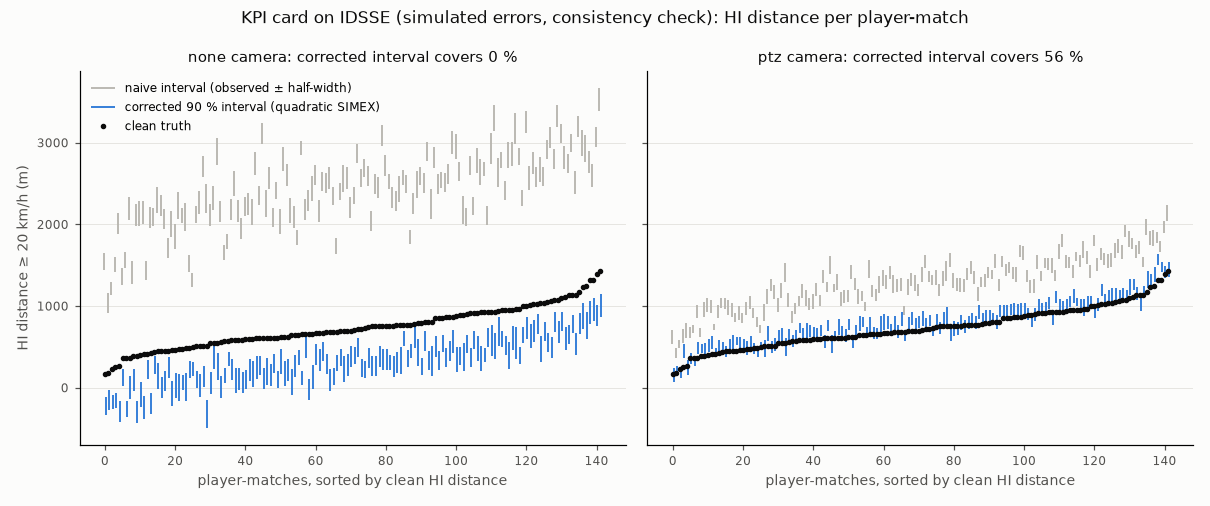
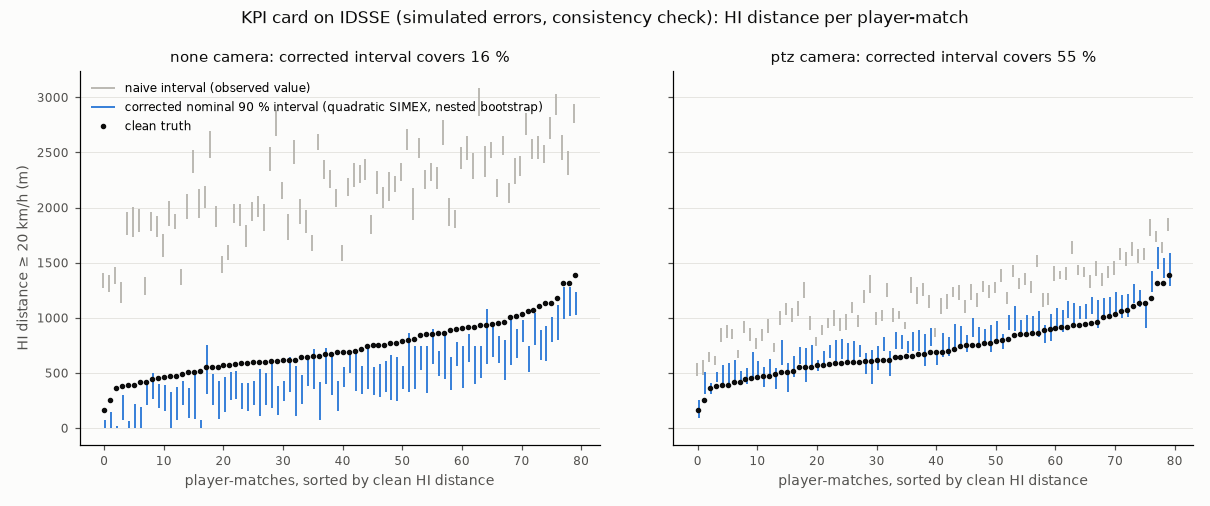
docs(reports): spectral budget and KPI card after the review fixes
Spectral budget (pooled-ACF refit, same seed and matches): PTZ chosen model
5 fps proxy in play +18.5 -> +15.0 % distance and +42.4 -> +34.0 % HSR
distance against +3.9 / +9.5 % measured, speed-error RMS 0.78 against 0.79;
the check fails for PTZ (x3.9, x3.6) and passes for the per-frame camera
(x1.6, x1.9), and the caveat above the budget says these numbers are not
predfoot's KPI error. 10 fps budget, PTZ: distance +22.7 -> +19.1 %, HI
distance +75.4 -> +59.9 %, sprint distance +122 -> +95 %, PSV-99
+11.5 -> +9.6 %. Step round trip: measured median 0.2 s step 0.59 to 0.72
of the chosen model's.

KPI card (4 matches, 80 player-matches, 20 draws, nested bootstrap 8 x 8):
PTZ quadratic coverage 90 / 94 / 86 % for HSR efforts, sprint efforts and
PSV-99 (55 to 70 % with the spread of one dose); 36 / 55 / 21 % for
distance, HI distance and sprint distance, limited by the remaining bias.

Claude-Session: https://claude.ai/code/session_012TVsGDiNG2EdFmFQenqDcG

diff --git a/reports/kpi_budget_spectral.md b/reports/kpi_budget_spectral.md
@@ -5,40 +5,55 @@
 > only measured KPI numbers are the SN-GSR proxy values quoted in section 2.
 
 - **Command**: `uv run python scripts/kpi_spectral.py `
-- **Git commit**: `5a726fe`; date 2026-10-31T17:25:14; runtime 260.9 s
+- **Git commit**: `b30e1e2`; date 2026-10-31T18:57:13; runtime 244.1 s
 - **Error process**: `reports/error_process_temporal_dev.json` (from `uv run python scripts/error_process.py runs/20261031-153059_c3861c7_ptz/players.parquet --compare runs/20261031-152537_c3861c7_none/players.parquet --name ptz --compare-name none`), errors against the smoothed labels, frames one in five (5 fps), per axis (x along the touchlines, y across) and part.
 - **IDSSE**: proxy check on J03WMX; budget on 7 matches (J03WMX, J03WN1, J03WOH, J03WOY, J03WPY, J03WQQ, J03WR9), 142 player-matches (outfield, ≥ 45 min). IDSSE: Bassek, Rein, Weber & Memmert 2025, CC BY 4.0.
 - **Seed** 20261031, 1000 bootstrap resamples over matches; one noise draw per condition and match.
 
 ## 1. Error model
 
-Per axis and part, a stationary process with autocorrelation ρ(τ) = w_n·ν(τ) + w_m·k(τ/ℓ) + w_s·k(τ/T) (`predfoot.kpi.noise`): a nugget ν plus a main and a slow scale of one kernel k, fitted by weighted least squares to the five measured lags (0.2-1.0 s). Scales are kept at or above the 0.2 s sampling interval: anything faster is not resolved by the measurement and is carried by the nugget, whose shape at 25 Hz is an assumption (section 3). Two marginals: **Gaussian** with the measured σ, or the **measured marginal** through a Gaussian copula, ρ being then fitted to the ACF of the normal scores. The measured errors are heavy-tailed: a Gaussian with the measured σ makes the typical error about twice too large (robust σ = 0.36 to 0.68 of the SD, kurtosis 11 to 35 on these tables).
+Per axis and part, a stationary process with autocorrelation ρ(τ) = w_n·ν(τ) + w_m·k(τ/ℓ) + w_s·k(τ/T) (`predfoot.kpi.noise`): a nugget ν plus a main and a slow scale of one kernel k, fitted by weighted least squares to the five measured lags (0.2-1.0 s). Scales are kept at or above the 0.2 s sampling interval: anything faster is not resolved by the measurement and is carried by the nugget, whose shape at 25 Hz is an assumption (section 3). Two marginals: **Gaussian** with the measured σ, or the **measured marginal** through a Gaussian copula, ρ being then fitted to the ACF of the normal scores. The measured errors are heavy-tailed: robust σ (IQR / 1.349) = 0.45 to 0.68 of the SD and kurtosis 11 to 34 on these series, so a Gaussian with the measured σ makes the typical error 1.5 to 2.2 times too large.
 
 Largest |ACF residual| over the five lags (model minus measurement; normal-score ACF for the copula fits):
 
 | Camera | Part | Axis | single OU through 0.2 s (previous) | nugget + exponential (gauss) | nugget + Matérn-3/2 (gauss) | nugget + Matérn-5/2 (gauss) | nugget + squared exponential (gauss) | nugget + exponential (copula) | nugget + Matérn-3/2 (copula) | nugget + Matérn-5/2 (copula) | nugget + squared exponential (copula) |
 |---|---|---|---|---|---|---|---|---|---|---|---|
-| none | common | x | 0.256 | 0.007 | 0.005 | 0.005 | 0.004 | 0.004 | 0.002 | 0.002 | 0.001 |
-| none | common | y | 0.233 | 0.005 | 0.005 | 0.005 | 0.003 | 0.004 | 0.003 | 0.003 | 0.002 |
-| none | individual | x | 0.237 | 0.009 | 0.008 | 0.007 | 0.005 | 0.009 | 0.007 | 0.006 | 0.005 |
-| none | individual | y | 0.222 | 0.009 | 0.007 | 0.007 | 0.005 | 0.009 | 0.007 | 0.007 | 0.006 |
-| ptz | common | x | 0.065 | 0.003 | 0.002 | 0.002 | 0.004 | 0.002 | 0.001 | 0.002 | 0.003 |
-| ptz | common | y | 0.062 | 0.025 | 0.001 | 0.002 | 0.003 | 0.020 | 0.001 | 0.002 | 0.003 |
-| ptz | individual | x | 0.224 | 0.012 | 0.010 | 0.009 | 0.008 | 0.012 | 0.010 | 0.009 | 0.008 |
-| ptz | individual | y | 0.259 | 0.017 | 0.016 | 0.015 | 0.014 | 0.016 | 0.015 | 0.014 | 0.014 |
+| none | common | x | 0.291 | 0.017 | 0.016 | 0.015 | 0.014 | 0.005 | 0.005 | 0.005 | 0.004 |
+| none | common | y | 0.272 | 0.006 | 0.006 | 0.006 | 0.005 | 0.006 | 0.004 | 0.004 | 0.003 |
+| none | individual | x | 0.343 | 0.008 | 0.007 | 0.006 | 0.006 | 0.007 | 0.006 | 0.005 | 0.003 |
+| none | individual | y | 0.298 | 0.006 | 0.004 | 0.004 | 0.003 | 0.006 | 0.004 | 0.003 | 0.003 |
+| ptz | common | x | 0.045 | 0.005 | 0.001 | 0.000 | 0.001 | 0.003 | 0.001 | 0.001 | 0.002 |
+| ptz | common | y | 0.079 | 0.034 | 0.001 | 0.002 | 0.003 | 0.024 | 0.001 | 0.002 | 0.003 |
+| ptz | individual | x | 0.208 | 0.005 | 0.004 | 0.005 | 0.006 | 0.008 | 0.006 | 0.005 | 0.005 |
+| ptz | individual | y | 0.294 | 0.010 | 0.009 | 0.008 | 0.007 | 0.012 | 0.010 | 0.009 | 0.008 |
 
-Chosen model: **nugget + Matérn-3/2, measured marginal, white nugget**. Parameters (σ in m, scales in s; the last column is the RMS of the time derivative of a Gaussian process with the same σ and ρ, in m/s, infinite when the nugget is white or the kernel exponential):
+Chosen model: **nugget + Matérn-3/2, measured marginal, white nugget**. The kernel is a prior choice, not a fit result: the smooth kernels fit the five lags about as well as each other (table above), and Matérn-3/2 is the roughest of them with differentiable paths, as expected of the error of a smoothed camera with inertia. Parameters (σ in m, scales in s; the last column is the RMS of the time derivative of a Gaussian process with the same σ and ρ, in m/s, infinite when the nugget is white or the kernel exponential):
 
 | Camera | Part | Axis | σ | w_n | ℓ | w_s | T | RMS d/dt |
 |---|---|---|---|---|---|---|---|---|
-| none | common | x | 0.542 | 0.32 | 0.20 | 0.58 | 1.4 | ∞ |
-| none | common | y | 0.580 | 0.32 | 0.38 | 0.46 | 1.6 | ∞ |
-| none | individual | x | 0.535 | 0.41 | 0.20 | 0.41 | 1.5 | ∞ |
-| none | individual | y | 0.652 | 0.48 | 0.20 | 0.33 | 1.7 | ∞ |
-| ptz | common | x | 0.375 | 0.08 | 0.39 | 0.65 | 1.8 | ∞ |
-| ptz | common | y | 0.476 | 0.05 | 0.47 | 0.55 | 1.8 | ∞ |
-| ptz | individual | x | 0.326 | 0.20 | 0.20 | 0.57 | 1.4 | ∞ |
-| ptz | individual | y | 0.396 | 0.26 | 0.20 | 0.48 | 1.8 | ∞ |
+| none | common | x | 0.542 | 0.27 | 0.33 | 0.62 | 1.8 | ∞ |
+| none | common | y | 0.580 | 0.27 | 0.52 | 0.43 | 2.6 | ∞ |
+| none | individual | x | 0.535 | 0.35 | 0.20 | 0.51 | 1.9 | ∞ |
+| none | individual | y | 0.652 | 0.43 | 0.20 | 0.41 | 1.9 | ∞ |
+| ptz | common | x | 0.375 | 0.05 | 0.49 | 0.66 | 2.4 | ∞ |
+| ptz | common | y | 0.476 | 0.03 | 0.54 | 0.59 | 2.4 | ∞ |
+| ptz | individual | x | 0.326 | 0.13 | 0.20 | 0.68 | 1.6 | ∞ |
+| ptz | individual | y | 0.396 | 0.19 | 0.20 | 0.61 | 1.8 | ∞ |
+
+Round trip at 5 fps: RMS and median |step| of the 0.2 s error steps (m), measured on SN-GSR dev and in 10 min of samples of the fitted processes (25 Hz, one sample in five): the Gaussian nugget + Matérn-3/2 and the chosen model. The ACF is pooled over series (`error_process.py`), so the Gaussian fit reproduces the measured step RMS up to its ACF residual; the copula fit matches the normal scores instead, so its step RMS can differ.
+
+| Camera | Part | Axis | Step RMS: measured | Gaussian | chosen | Median |step|: measured | Gaussian | chosen |
+|---|---|---|---|---|---|---|---|---|
+| none | common | x | 0.441 | 0.443 | 0.481 | 0.109 | 0.298 | 0.185 |
+| none | common | y | 0.458 | 0.458 | 0.485 | 0.179 | 0.309 | 0.256 |
+| none | individual | x | 0.496 | 0.492 | 0.540 | 0.126 | 0.333 | 0.204 |
+| none | individual | y | 0.674 | 0.673 | 0.688 | 0.199 | 0.455 | 0.291 |
+| ptz | common | x | 0.179 | 0.180 | 0.201 | 0.053 | 0.122 | 0.079 |
+| ptz | common | y | 0.190 | 0.191 | 0.225 | 0.080 | 0.129 | 0.112 |
+| ptz | individual | x | 0.210 | 0.210 | 0.252 | 0.062 | 0.143 | 0.098 |
+| ptz | individual | y | 0.307 | 0.307 | 0.329 | 0.101 | 0.206 | 0.151 |
+
+Measured / chosen model: step RMS 0.83 to 0.98, median |step| 0.59 to 0.72. A median ratio below the RMS ratio means real steps are intermittent: mostly smaller than the model's, with rarer large jumps.
 
 ## 2. Simulation against measurement: the KPI proxy at 5 fps
 
@@ -55,40 +70,51 @@ Simulated values are *all frames / ball in play* (speed error: RMS / p90 of |err
 | Camera and model | Distance bias | HSR-distance bias | Speed error (m/s) |
 |---|---|---|---|
 | **none: measured on SN-GSR** | +27.1 % | +67.9 % | 1.50 / 1.54 |
-| none: single OU through 0.2 s (previous) | +99.0 % / +64.4 % | +235.4 % / +207.3 % | 1.77 / 2.68 · 1.75 / 2.62 |
-| none: nugget + Matérn-3/2, Gaussian, white nugget | +81.6 % / +52.4 % | +146.3 % / +131.7 % | 1.48 / 2.18 · 1.47 / 2.15 |
-| none: nugget + exponential, measured marginal, white nugget | +75.7 % / +49.0 % | +167.3 % / +146.4 % | 1.52 / 2.18 · 1.52 / 2.14 |
-| none: nugget + Matérn-3/2, measured marginal, white nugget | +75.2 % / +48.4 % | +168.2 % / +144.5 % | 1.51 / 2.18 · 1.50 / 2.12 |
-| none: nugget + squared exponential, measured marginal, white nugget | +75.7 % / +48.9 % | +166.4 % / +142.6 % | 1.51 / 2.18 · 1.50 / 2.14 |
+| none: single OU through 0.2 s (previous) | +89.0 % / +57.3 % | +207.4 % / +184.9 % | 1.68 / 2.57 · 1.65 / 2.50 |
+| none: nugget + Matérn-3/2, Gaussian, white nugget | +68.7 % / +43.4 % | +109.2 % / +100.5 % | 1.31 / 1.95 · 1.31 / 1.93 |
+| none: nugget + exponential, measured marginal, white nugget | +68.4 % / +44.0 % | +145.0 % / +128.3 % | 1.42 / 2.03 · 1.42 / 2.00 |
+| none: nugget + Matérn-3/2, measured marginal, white nugget | +68.0 % / +43.4 % | +145.3 % / +126.2 % | 1.42 / 2.03 · 1.41 / 1.98 |
+| none: nugget + squared exponential, measured marginal, white nugget | +68.4 % / +43.9 % | +144.3 % / +124.0 % | 1.42 / 2.03 · 1.41 / 2.00 |
 | **ptz: measured on SN-GSR** | +3.9 % | +9.5 % | 0.79 / 0.88 |
-| ptz: single OU through 0.2 s (previous) | +37.3 % / +21.9 % | +49.9 % / +48.0 % | 0.93 / 1.45 · 0.92 / 1.43 |
-| ptz: nugget + Matérn-3/2, Gaussian, white nugget | +33.2 % / +19.3 % | +40.1 % / +38.9 % | 0.85 / 1.32 · 0.85 / 1.32 |
-| ptz: nugget + exponential, measured marginal, white nugget | +31.5 % / +18.6 % | +46.3 % / +42.5 % | 0.87 / 1.28 · 0.86 / 1.25 |
-| ptz: nugget + Matérn-3/2, measured marginal, white nugget | +32.0 % / +18.5 % | +47.2 % / +42.4 % | 0.88 / 1.31 · 0.86 / 1.27 |
-| ptz: nugget + squared exponential, measured marginal, white nugget | +32.0 % / +19.1 % | +49.8 % / +46.1 % | 0.89 / 1.30 · 0.87 / 1.29 |
+| ptz: single OU through 0.2 s (previous) | +27.5 % / +15.6 % | +34.8 % / +33.7 % | 0.79 / 1.24 · 0.78 / 1.22 |
+| ptz: nugget + Matérn-3/2, Gaussian, white nugget | +24.0 % / +13.5 % | +26.5 % / +25.8 % | 0.71 / 1.12 · 0.71 / 1.11 |
+| ptz: nugget + exponential, measured marginal, white nugget | +26.0 % / +15.1 % | +35.8 % / +33.4 % | 0.78 / 1.15 · 0.78 / 1.13 |
+| ptz: nugget + Matérn-3/2, measured marginal, white nugget | +26.5 % / +15.0 % | +37.6 % / +34.0 % | 0.80 / 1.18 · 0.78 / 1.14 |
+| ptz: nugget + squared exponential, measured marginal, white nugget | +26.4 % / +15.6 % | +39.7 % / +37.4 % | 0.80 / 1.17 · 0.79 / 1.17 |
+
+**Verdict.** The check passes when the chosen model's ball-in-play distance and HSR-distance biases are both within a factor of 2 of the measured ones.
+
+| Camera | Distance bias: simulated / measured | HSR-distance bias: simulated / measured | Check |
+|---|---|---|---|
+| none | ×1.6 | ×1.9 | passes |
+| ptz | ×3.9 | ×3.6 | **fails** |
+
+Every simulated bias exceeds the measured one (×1.6 to ×3.9): the model overstates the 5 fps KPI cost even where the check passes.
 
 What the simulation does not reproduce: the SN-GSR reference is the smoothed labels, which carry their own smoothing error, while IDSSE's is the clean tracking; real errors are heteroscedastic (larger far from the camera, along the viewing direction) and can correlate with motion (fast pans during fast play), while the simulated ones are stationary and independent of motion; and the two data sets move differently (table above). Nothing was tuned on the proxy: models are fitted to the ACF and the marginal only.
 
 ## 3. Budget at the export rate (10 fps pipeline)
 
-Errors are sampled at 25 Hz and the 10 fps pipeline runs as for exported tracking. The nugget (0.05 to 0.48 of the variance) is invisible at 5 fps; two shapes bound what it can do at 25 Hz: **white** (independent frames, power spread to 12.5 Hz, mostly removed by the 10 fps smoothing after aliasing) and **band-limited** (flat spectrum up to 2.5 Hz: the smoothest process still uncorrelated at 0.2 s, with all its power where the 1 s smoothing lets speed noise through). The kernels bracket the resolved part between its measured lags, from exponential (rough) to squared exponential (smooth).
+> **Not predfoot's KPI error.** The check of section 2 fails for the ptz camera: the chosen model's simulated 5 fps proxy biases are several times the measured ones (ptz: distance ×3.9, HSR distance ×3.6, ball in play). For the none camera the check passes, but the simulated biases are still above the measured ones (none: distance ×1.6, HSR distance ×1.9). The numbers below are the budget of the fitted stationary error model; they overstate the KPI error of predfoot's tracking and must not be quoted as such.
+
+Errors are sampled at 25 Hz and the 10 fps pipeline runs as for exported tracking. The nugget (0.03 to 0.43 of the variance) is invisible at 5 fps; two shapes bound what it can do at 25 Hz: **white** (independent frames, power spread to 12.5 Hz, mostly removed by the 10 fps smoothing after aliasing) and **band-limited** (flat spectrum up to 2.5 Hz: the smoothest process still uncorrelated at 0.2 s, with all its power where the 1 s smoothing lets speed noise through). The kernels bracket the resolved part between its measured lags, from exponential (rough) to squared exponential (smooth).
 
 ### Chosen model (nugget + Matérn-3/2, measured marginal, white nugget) against the clean 25 Hz reference
 
 | Camera | KPI | Ref. mean | MAPE % [95 % CI] | Bias % [95 % CI] | Spearman [95 % CI] |
 |---|---|---|---|---|---|
-| none | Distance | 9646.8 | 46.11 [44.15, 48.77] | +45.95 [+43.96, +48.57] | 0.985 [0.976, 0.988] |
-| none | HI dist. ≥ 20 | 735.9 | 253.85 [238.32, 268.41] | +226.65 [+217.75, +235.79] | 0.779 [0.726, 0.824] |
-| none | Dist. > 25 | 180.1 | 587.10 [527.96, 651.22] | +416.50 [+388.60, +445.92] | 0.663 [0.620, 0.719] |
-| none | HSR efforts | 38.3 | 17.32 [15.62, 18.75] | -15.95 [-17.52, -14.21] | 0.908 [0.870, 0.927] |
-| none | Sprint efforts | 8.8 | 38.31 [36.50, 40.43] | -32.16 [-35.29, -28.52] | 0.768 [0.679, 0.832] |
-| none | PSV-99 | 28.5 | 23.69 [22.67, 24.83] | +23.42 [+22.39, +24.55] | 0.715 [0.618, 0.792] |
-| ptz | Distance | 9646.8 | 22.74 [21.76, 24.15] | +22.66 [+21.70, +24.05] | 0.993 [0.987, 0.995] |
-| ptz | HI dist. ≥ 20 | 735.9 | 83.85 [78.50, 89.42] | +75.38 [+72.32, +78.88] | 0.918 [0.887, 0.941] |
-| ptz | Dist. > 25 | 180.1 | 166.90 [151.36, 185.53] | +122.15 [+112.65, +132.53] | 0.879 [0.849, 0.910] |
-| ptz | HSR efforts | 38.3 | 9.27 [7.88, 10.41] | -4.29 [-5.85, -2.54] | 0.944 [0.893, 0.968] |
-| ptz | Sprint efforts | 8.8 | 23.52 [20.71, 26.48] | -16.64 [-19.53, -13.91] | 0.898 [0.858, 0.926] |
-| ptz | PSV-99 | 28.5 | 11.64 [10.69, 12.72] | +11.48 [+10.54, +12.56] | 0.794 [0.705, 0.860] |
+| none | Distance | 9646.8 | 41.28 [39.52, 43.66] | +41.14 [+39.35, +43.47] | 0.985 [0.976, 0.989] |
+| none | HI dist. ≥ 20 | 735.9 | 215.44 [202.83, 228.06] | +192.71 [+184.92, +200.41] | 0.808 [0.764, 0.848] |
+| none | Dist. > 25 | 180.1 | 493.46 [443.76, 546.92] | +350.91 [+327.23, +376.37] | 0.705 [0.674, 0.747] |
+| none | HSR efforts | 38.3 | 16.97 [15.37, 18.59] | -14.79 [-16.60, -12.96] | 0.911 [0.874, 0.935] |
+| none | Sprint efforts | 8.8 | 37.17 [35.20, 39.25] | -28.24 [-32.45, -23.96] | 0.776 [0.686, 0.843] |
+| none | PSV-99 | 28.5 | 21.39 [20.45, 22.51] | +21.14 [+20.20, +22.25] | 0.740 [0.671, 0.804] |
+| ptz | Distance | 9646.8 | 19.18 [18.40, 20.37] | +19.11 [+18.33, +20.29] | 0.994 [0.989, 0.995] |
+| ptz | HI dist. ≥ 20 | 735.9 | 66.48 [62.09, 71.17] | +59.87 [+57.16, +62.87] | 0.936 [0.915, 0.950] |
+| ptz | Dist. > 25 | 180.1 | 129.71 [117.23, 144.31] | +95.36 [+87.51, +104.18] | 0.910 [0.890, 0.930] |
+| ptz | HSR efforts | 38.3 | 8.52 [7.65, 9.59] | -2.23 [-3.85, -0.71] | 0.947 [0.896, 0.969] |
+| ptz | Sprint efforts | 8.8 | 21.20 [19.19, 23.65] | -13.12 [-15.67, -10.99] | 0.904 [0.879, 0.920] |
+| ptz | PSV-99 | 28.5 | 9.70 [8.88, 10.65] | +9.57 [+8.76, +10.49] | 0.822 [0.747, 0.883] |
 
 ### Sensitivity: bias % of each KPI under every model
 
@@ -97,48 +123,48 @@ Ghost: distance per minute of a motionless player through the 10 fps pipeline (o
 | Model | Ghost (m/min) | Distance | HI dist. ≥ 20 | Dist. > 25 | HSR efforts | Sprint efforts | PSV-99 |
 |---|---|---|---|---|---|---|---|
 | clean 10 fps (control) | – | -0.1 | -0.2 | -0.2 | -0.5 | +0.0 | -0.1 |
-| none: single OU through 0.2 s (previous) | 155.0 | +74.1 | +443.2 | +806.3 | +3.9 | -10.6 | +34.1 |
-| none: nugget + Matérn-3/2, Gaussian, white nugget | 117.6 | +48.7 | +198.8 | +327.3 | -14.0 | -27.6 | +21.2 |
-| none: nugget + exponential, measured marginal, white nugget | 113.0 | +47.0 | +235.3 | +436.5 | -14.7 | -30.9 | +24.1 |
-| none: nugget + exponential, measured marginal, bandlimited nugget | 127.9 | +56.8 | +347.5 | +721.8 | -15.7 | -30.2 | +34.5 |
-| none: nugget + Matérn-3/2, measured marginal, white nugget | 110.6 | +45.9 | +226.6 | +416.5 | -16.0 | -32.2 | +23.4 |
-| none: nugget + Matérn-3/2, measured marginal, bandlimited nugget | 127.8 | +58.2 | +364.1 | +768.5 | -16.4 | -31.2 | +36.5 |
-| none: nugget + Matérn-5/2, measured marginal, white nugget | 111.8 | +45.8 | +222.6 | +408.1 | -15.7 | -29.4 | +22.7 |
-| none: nugget + Matérn-5/2, measured marginal, bandlimited nugget | 127.2 | +58.1 | +367.9 | +786.9 | -16.1 | -27.3 | +36.9 |
-| none: nugget + squared exponential, measured marginal, white nugget | 108.8 | +45.4 | +219.9 | +401.7 | -15.1 | -33.4 | +22.4 |
-| none: nugget + squared exponential, measured marginal, bandlimited nugget | 125.5 | +58.2 | +368.0 | +783.3 | -17.5 | -31.4 | +36.8 |
-| ptz: single OU through 0.2 s (previous) | 84.0 | +28.6 | +83.8 | +127.6 | -0.1 | -11.4 | +12.8 |
-| ptz: nugget + Matérn-3/2, Gaussian, white nugget | 73.8 | +22.9 | +60.6 | +90.7 | -4.1 | -9.8 | +10.1 |
-| ptz: nugget + exponential, measured marginal, white nugget | 70.5 | +22.8 | +76.8 | +125.1 | -4.7 | -9.8 | +11.8 |
-| ptz: nugget + exponential, measured marginal, bandlimited nugget | 72.6 | +24.1 | +84.4 | +139.9 | -6.3 | -16.5 | +13.4 |
-| ptz: nugget + Matérn-3/2, measured marginal, white nugget | 69.3 | +22.7 | +75.4 | +122.1 | -4.3 | -16.6 | +11.5 |
-| ptz: nugget + Matérn-3/2, measured marginal, bandlimited nugget | 75.7 | +25.1 | +91.5 | +151.9 | -6.6 | -15.8 | +14.1 |
-| ptz: nugget + Matérn-5/2, measured marginal, white nugget | 70.5 | +22.3 | +74.1 | +122.2 | -5.4 | -11.0 | +12.3 |
-| ptz: nugget + Matérn-5/2, measured marginal, bandlimited nugget | 75.2 | +25.4 | +95.0 | +161.8 | -7.2 | -16.3 | +15.0 |
-| ptz: nugget + squared exponential, measured marginal, white nugget | 67.9 | +22.0 | +71.2 | +114.9 | -4.2 | -15.4 | +11.2 |
-| ptz: nugget + squared exponential, measured marginal, bandlimited nugget | 75.7 | +25.4 | +93.9 | +159.2 | -7.4 | -15.0 | +15.0 |
+| none: single OU through 0.2 s (previous) | 146.4 | +68.1 | +375.0 | +662.0 | +13.6 | -0.8 | +31.1 |
+| none: nugget + Matérn-3/2, Gaussian, white nugget | 104.5 | +40.5 | +144.9 | +230.9 | -12.9 | -25.5 | +17.3 |
+| none: nugget + exponential, measured marginal, white nugget | 105.1 | +42.2 | +201.2 | +368.9 | -13.7 | -29.1 | +21.8 |
+| none: nugget + exponential, measured marginal, bandlimited nugget | 119.1 | +51.3 | +298.1 | +609.7 | -15.3 | -28.0 | +31.5 |
+| none: nugget + Matérn-3/2, measured marginal, white nugget | 102.7 | +41.1 | +192.7 | +350.9 | -14.8 | -28.2 | +21.1 |
+| none: nugget + Matérn-3/2, measured marginal, bandlimited nugget | 119.2 | +52.5 | +311.2 | +645.8 | -16.3 | -29.6 | +33.2 |
+| none: nugget + Matérn-5/2, measured marginal, white nugget | 104.1 | +41.0 | +190.0 | +344.8 | -14.6 | -28.2 | +20.5 |
+| none: nugget + Matérn-5/2, measured marginal, bandlimited nugget | 118.5 | +52.5 | +315.1 | +663.8 | -16.4 | -26.6 | +33.7 |
+| none: nugget + squared exponential, measured marginal, white nugget | 100.7 | +40.8 | +188.5 | +341.0 | -14.3 | -30.6 | +20.2 |
+| none: nugget + squared exponential, measured marginal, bandlimited nugget | 116.6 | +52.6 | +315.2 | +658.8 | -16.8 | -30.3 | +33.6 |
+| ptz: single OU through 0.2 s (previous) | 70.6 | +21.5 | +55.1 | +82.1 | +1.4 | -6.4 | +9.0 |
+| ptz: nugget + Matérn-3/2, Gaussian, white nugget | 61.6 | +16.9 | +39.7 | +58.9 | -1.2 | -5.2 | +7.2 |
+| ptz: nugget + exponential, measured marginal, white nugget | 63.0 | +19.2 | +60.6 | +96.9 | -3.1 | -6.1 | +9.9 |
+| ptz: nugget + exponential, measured marginal, bandlimited nugget | 64.7 | +20.1 | +65.2 | +106.2 | -4.0 | -12.9 | +11.1 |
+| ptz: nugget + Matérn-3/2, measured marginal, white nugget | 62.3 | +19.1 | +59.9 | +95.4 | -2.2 | -13.1 | +9.6 |
+| ptz: nugget + Matérn-3/2, measured marginal, bandlimited nugget | 67.5 | +20.9 | +70.5 | +114.3 | -4.4 | -13.5 | +11.4 |
+| ptz: nugget + Matérn-5/2, measured marginal, white nugget | 63.1 | +18.8 | +59.0 | +96.3 | -2.7 | -7.4 | +10.4 |
+| ptz: nugget + Matérn-5/2, measured marginal, bandlimited nugget | 66.8 | +21.1 | +73.6 | +123.3 | -4.9 | -13.8 | +12.3 |
+| ptz: nugget + squared exponential, measured marginal, white nugget | 60.7 | +18.5 | +56.7 | +89.9 | -3.2 | -11.4 | +9.4 |
+| ptz: nugget + squared exponential, measured marginal, bandlimited nugget | 67.2 | +21.1 | +72.1 | +120.1 | -5.6 | -12.5 | +12.2 |
 
 Sensitivity bound: the range of the bias over the four kernels and both nugget shapes (same marginal as the chosen model), next to the Gaussian Matérn-3/2 and the previous single OU:
 
 | Camera | KPI | Chosen | Range, kernels × nuggets | Gaussian Matérn-3/2 | Single OU |
 |---|---|---|---|---|---|
-| none | Distance | +45.9 | +45.4 to +58.2 | +48.7 | +74.1 |
-| none | HI dist. ≥ 20 | +226.6 | +219.9 to +368.0 | +198.8 | +443.2 |
-| none | Dist. > 25 | +416.5 | +401.7 to +786.9 | +327.3 | +806.3 |
-| none | HSR efforts | -16.0 | -17.5 to -14.7 | -14.0 | +3.9 |
-| none | Sprint efforts | -32.2 | -33.4 to -27.3 | -27.6 | -10.6 |
-| none | PSV-99 | +23.4 | +22.4 to +36.9 | +21.2 | +34.1 |
-| ptz | Distance | +22.7 | +22.0 to +25.4 | +22.9 | +28.6 |
-| ptz | HI dist. ≥ 20 | +75.4 | +71.2 to +95.0 | +60.6 | +83.8 |
-| ptz | Dist. > 25 | +122.1 | +114.9 to +161.8 | +90.7 | +127.6 |
-| ptz | HSR efforts | -4.3 | -7.4 to -4.2 | -4.1 | -0.1 |
-| ptz | Sprint efforts | -16.6 | -16.6 to -9.8 | -9.8 | -11.4 |
-| ptz | PSV-99 | +11.5 | +11.2 to +15.0 | +10.1 | +12.8 |
+| none | Distance | +41.1 | +40.8 to +52.6 | +40.5 | +68.1 |
+| none | HI dist. ≥ 20 | +192.7 | +188.5 to +315.2 | +144.9 | +375.0 |
+| none | Dist. > 25 | +350.9 | +341.0 to +663.8 | +230.9 | +662.0 |
+| none | HSR efforts | -14.8 | -16.8 to -13.7 | -12.9 | +13.6 |
+| none | Sprint efforts | -28.2 | -30.6 to -26.6 | -25.5 | -0.8 |
+| none | PSV-99 | +21.1 | +20.2 to +33.7 | +17.3 | +31.1 |
+| ptz | Distance | +19.1 | +18.5 to +21.1 | +16.9 | +21.5 |
+| ptz | HI dist. ≥ 20 | +59.9 | +56.7 to +73.6 | +39.7 | +55.1 |
+| ptz | Dist. > 25 | +95.4 | +89.9 to +123.3 | +58.9 | +82.1 |
+| ptz | HSR efforts | -2.2 | -5.6 to -2.2 | -1.2 | +1.4 |
+| ptz | Sprint efforts | -13.1 | -13.8 to -6.1 | -5.2 | -6.4 |
+| ptz | PSV-99 | +9.6 | +9.4 to +12.3 | +7.2 | +9.0 |
 
 All KPIs, chosen model, MAPE % / bias % against the clean 25 Hz reference:
 
 | Model | Distance | Dist. < 15 | Dist. 15-20 | Dist. 20-25 | Dist. > 25 | HI dist. ≥ 20 | HSR efforts | Sprint efforts | PSV-99 | Expl. acc. to HSR | Expl. acc. to sprint |
 |---|---|---|---|---|---|---|---|---|---|---|---|
-| none | 46.1 / +45.9 | 18.3 / +18.2 | 107.9 / +99.5 | 184.7 / +165.1 | 587.1 / +416.5 | 253.9 / +226.6 | 17.3 / -16.0 | 38.3 / -32.2 | 23.7 / +23.4 | 61.6 / -49.0 | 80.5 / +0.7 |
-| ptz | 22.7 / +22.7 | 13.7 / +13.7 | 46.3 / +43.0 | 67.2 / +60.2 | 166.9 / +122.1 | 83.9 / +75.4 | 9.3 / -4.3 | 23.5 / -16.6 | 11.6 / +11.5 | 59.4 / -35.6 | 57.0 / -19.1 |
+| none | 41.3 / +41.1 | 17.8 / +17.7 | 94.6 / +87.3 | 157.8 / +141.5 | 493.5 / +350.9 | 215.4 / +192.7 | 17.0 / -14.8 | 37.2 / -28.2 | 21.4 / +21.1 | 64.4 / -52.6 | 78.6 / -16.2 |
+| ptz | 19.2 / +19.1 | 12.1 / +12.1 | 38.1 / +35.5 | 53.8 / +48.4 | 129.7 / +95.4 | 66.5 / +59.9 | 8.5 / -2.2 | 21.2 / -13.1 | 9.7 / +9.6 | 56.8 / -37.7 | 60.9 / -32.4 |
 | clean 10 fps | 0.1 / -0.1 | 0.0 / -0.0 | 0.2 / -0.1 | 0.4 / -0.2 | 0.8 / -0.2 | 0.3 / -0.2 | 0.7 / -0.5 | 0.9 / +0.0 | 0.1 / -0.1 | 12.3 / +2.2 | 13.2 / +8.6 |

diff --git a/reports/kpi_card.md b/reports/kpi_card.md
@@ -5,79 +5,93 @@
 > Coverage here checks the card's arithmetic and its noise-on-noise approximation; it says nothing about
 > whether the error model is right for real broadcast tracking.
 
-- **Command**: `uv run python scripts/kpi_card.py --n-draws 20`
-- **Git commit**: `cae18db`; date 2026-10-31T17:34:30; runtime 294.5 s
+- **Command**: `uv run python scripts/kpi_card.py --matches J03WMX J03WN1 J03WOH J03WOY --n-draws 20 --n-outer 8 --n-inner 8`
+- **Git commit**: `796a452`; date 2026-10-31T18:47:01; runtime 627.4 s
 - **Error model** per camera: `matern32:copula:white` from `reports/error_process_temporal_dev.json` (`predfoot.kpi.noise.fit_error_model`).
-- **Data**: IDSSE (Bassek, Rein, Weber & Memmert 2025, CC BY 4.0), 7 matches, 142 outfield player-matches with ≥ 45 min; 20 error draws per card, each at two doses; coverage intervals: 1000 bootstrap resamples over matches; seed 20261031.
+- **Data**: IDSSE (Bassek, Rein, Weber & Memmert 2025, CC BY 4.0), 4 matches (J03WMX, J03WN1, J03WOH, J03WOY), 80 outfield player-matches with ≥ 45 min; 20 error draws per card, each at two doses; nested bootstrap with 8 pseudo-observations of 8 draws each; coverage intervals: 1000 bootstrap resamples over matches; seed 20261031.
 
 ## The card
 
-From the observed track and the camera's error model only (`predfoot.kpi.card`): fresh errors
-are drawn from the model and added to the observed track at one and two extra doses of error
-variance, and the 10 fps KPI pipeline runs on each copy (SIMEX, Cook & Stefanski 1994). The
-**linear** estimate removes the change caused by one extra dose (noise on noise); the **quadratic**
-one extrapolates the parabola through zero, one and two extra doses back to no error. The 90 %
-interval adds the spread of one dose's effect and the Monte Carlo error; the **naive** interval has
-the same half-width around the observed value. The truth is the clean track through the same 10 fps
-pipeline.
+From the observed track and the camera's error model only (`predfoot.kpi.card`): fresh errors are
+drawn from the model and added to the observed track at one and two extra doses of error variance,
+and the 10 fps KPI pipeline runs on each copy (SIMEX, Cook & Stefanski 1994). The **linear**
+estimate removes the change caused by one extra dose (noise on noise); the **quadratic** one
+extrapolates the parabola through zero, one and two extra doses back to no error. Estimates and
+intervals that leave the KPI's support (all these KPIs are ≥ 0) are projected onto it. The
+interval is estimate ± t·s: s² is the sampling variance of the estimate over the observed error,
+from a nested parametric bootstrap (the same extrapolation on pseudo-observations, the observed
+track plus one more model draw), plus the Monte Carlo variance of the draws, combined draw by draw
+since both doses reuse each draw. The spread of one dose's effect, the previous choice of s,
+understates the sampling variance of KPIs that jump with the track: the extrapolation amplifies
+their noise. The intervals are model-based and uncalibrated, hence *nominal* 90 %. The **naive**
+interval is the observed value ± t·(spread of one dose), without bias correction. The truth is the
+clean track through the same 10 fps pipeline.
 
 ## Coverage of the clean truth
 
-Coverage of 90 % intervals across player-matches [95 % CI over matches]; LOMO: leave-one-match-out
-calibrated half-width (median scale factor in brackets); bias: relative error of the KPI summed over
-player-matches, before (observed) and after correction (estimate).
+Coverage of nominal 90 % intervals across player-matches [95 % CI over matches]: quadratic and
+linear with the nested-bootstrap variance, quadratic with the spread of one dose (previous
+half-width), and naive. LOMO: the quadratic interval with a leave-one-match-out calibrated
+half-width (median scale factor in brackets). Truncated: share of quadratic estimates projected
+onto the support. Bias: relative error of the KPI summed over player-matches, before (observed)
+and after correction (estimate). The observed bias comes from errors simulated by the model of
+`reports/kpi_budget_spectral.md`, whose 5 fps check against SN-GSR fails (section 2 there): it
+overstates the KPI bias of predfoot's real tracking and is not predfoot's KPI error.
 
-| Camera | KPI | Quadratic | Linear | Naive | Quadratic, LOMO-calibrated | Median half-width (rel.) | Bias, observed | Bias after linear | Bias after quadratic |
-|---|---|---|---|---|---|---|---|---|---|
-| none | Distance | 0 % [0, 0] | 0 % [0, 0] | 0 % [0, 0] | 88 % (×7.98) | 109 m (1 %) | +46.2 % | +13.0 % | +6.3 % |
-| none | HI distance (≥ 20 km/h) | 0 % [0, 0] | 0 % [0, 0] | 0 % [0, 0] | 88 % (×4.73) | 128 m (17 %) | +228.1 % | -106.8 % | -56.2 % |
-| none | Sprint distance (> 25 km/h) | 74 % [68, 81] | 0 % [0, 0] | 0 % [0, 0] | 89 % (×1.35) | 98 m (63 %) | +423.5 % | -338.3 % | +12.1 % |
-| none | HSR efforts | 54 % [44, 63] | 42 % [32, 54] | 67 % [59, 75] | 89 % (×2.17) | 8.0 (22 %) | -15.7 % | -22.7 % | -15.6 % |
-| none | Sprint efforts | 54 % [50, 58] | 49 % [46, 53] | 78 % [73, 84] | 89 % (×2.03) | 3.8 (48 %) | -28.2 % | -33.2 % | -25.7 % |
-| none | PSV-99 | 40 % [34, 46] | 34 % [26, 41] | 0 % [0, 0] | 91 % (×2.70) | 2.0 km/h (7 %) | +24.2 % | +8.9 % | +9.1 % |
-| ptz | Distance | 21 % [3, 41] | 0 % [0, 0] | 0 % [0, 0] | 87 % (×3.54) | 82 m (1 %) | +22.6 % | +4.9 % | +1.7 % |
-| ptz | HI distance (≥ 20 km/h) | 56 % [40, 72] | 4 % [1, 7] | 0 % [0, 0] | 89 % (×1.88) | 79 m (11 %) | +76.0 % | -23.5 % | +8.3 % |
-| ptz | Sprint distance (> 25 km/h) | 18 % [12, 24] | 7 % [3, 12] | 0 % [0, 0] | 89 % (×2.97) | 55 m (36 %) | +124.4 % | -57.1 % | +54.5 % |
-| ptz | HSR efforts | 65 % [57, 75] | 62 % [54, 70] | 94 % [90, 99] | 89 % (×1.62) | 7.5 (20 %) | -3.3 % | -8.9 % | -5.6 % |
-| ptz | Sprint efforts | 55 % [46, 63] | 60 % [50, 69] | 87 % [83, 92] | 90 % (×1.89) | 3.6 (46 %) | -13.8 % | -19.5 % | -16.8 % |
-| ptz | PSV-99 | 63 % [54, 72] | 63 % [50, 75] | 4 % [1, 8] | 89 % (×1.77) | 1.5 km/h (5 %) | +12.2 % | +3.0 % | +3.5 % |
+| Camera | KPI | Quadratic | Quadratic, one-dose spread | Linear | Naive | Quadratic, LOMO-calibrated | Median half-width (rel.) | Truncated | Bias, observed | Bias after linear | Bias after quadratic |
+|---|---|---|---|---|---|---|---|---|---|---|---|
+| none | Distance | 0 % [0, 5]† | 0 % [0, 5]† | 0 % [0, 5]† | 0 % [0, 5]† | 89 % (×6.08) | 123 m (1 %) | 0 % | +41.8 % | +11.2 % | +4.9 % |
+| none | HI distance (≥ 20 km/h) | 16 % [10, 22] | 4 % [1, 5] | 0 % [0, 5]† | 0 % [0, 5]† | 86 % (×2.80) | 142 m (22 %) | 6 % | +194.9 % | -77.2 % | -34.6 % |
+| none | Sprint distance (> 25 km/h) | 59 % [44, 68] | 46 % [34, 56] | 1 % [0, 4] | 0 % [0, 5]† | 89 % (×2.03) | 110 m (79 %) | 2 % | +363.4 % | -97.4 % | +48.2 % |
+| none | HSR efforts | 94 % [88, 99] | 56 % [50, 62] | 75 % [70, 80] | 56 % [51, 62] | 90 % (×0.89) | 15.4 (40 %) | 0 % | -14.1 % | -18.3 % | -10.9 % |
+| none | Sprint efforts | 91 % [90, 94] | 51 % [42, 60] | 85 % [78, 92] | 61 % [55, 69] | 90 % (×0.98) | 7.4 (100 %) | 6 % | -26.0 % | -29.8 % | -21.8 % |
+| none | PSV-99 | 75 % [65, 82] | 45 % [35, 51] | 65 % [58, 71] | 0 % [0, 5]† | 89 % (×1.47) | 3.2 km/h (11 %) | 0 % | +21.6 % | +7.2 % | +7.6 % |
+| ptz | Distance | 36 % [15, 69] | 24 % [4, 56] | 0 % [0, 5]† | 0 % [0, 5]† | 85 % (×2.96) | 85 m (1 %) | 0 % | +19.3 % | +3.9 % | +1.2 % |
+| ptz | HI distance (≥ 20 km/h) | 55 % [32, 66] | 32 % [14, 46] | 20 % [16, 24] | 0 % [0, 5]† | 89 % (×1.97) | 91 m (12 %) | 0 % | +60.7 % | -15.9 % | +9.9 % |
+| ptz | Sprint distance (> 25 km/h) | 21 % [10, 32] | 12 % [8, 15] | 49 % [37, 68] | 0 % [0, 5]† | 89 % (×2.46) | 59 m (40 %) | 0 % | +101.8 % | -31.7 % | +51.4 % |
+| ptz | HSR efforts | 90 % [86, 94] | 59 % [55, 63] | 89 % [82, 94] | 91 % [87, 95] | 91 % (×1.05) | 15.2 (39 %) | 0 % | -3.1 % | -9.1 % | -7.1 % |
+| ptz | Sprint efforts | 94 % [88, 100] | 55 % [44, 66] | 89 % [80, 98] | 86 % [78, 93] | 92 % (×0.92) | 6.1 (79 %) | 5 % | -10.2 % | -15.4 % | -12.4 % |
+| ptz | PSV-99 | 86 % [72, 100] | 70 % [58, 84] | 86 % [74, 98] | 2 % [0, 5] | 89 % (×1.17) | 2.0 km/h (7 %) | 0 % | +10.3 % | +2.2 % | +2.9 % |
+
+† The bootstrap over matches collapsed to a point (every interval covers, or none does):
+Clopper-Pearson interval over player-matches instead, which ignores the clustering by match.
 
 ![Cards for HI distance](figures/kpi_card.png)
 
 ## Example cards
 
-**J03WN1, home #10**
+**J03WOY, home #5**
 
-| KPI | Card, none camera (90 %) | Card, ptz camera (90 %) | Clean truth |
+| KPI | Card, none camera (nominal 90 %) | Card, ptz camera (nominal 90 %) | Clean truth |
 |---|---|---|---|
-| Distance | 7134 ± 67 m (observed 9653) | 6727 ± 68 m (observed 8047) | 6670 m |
-| HI distance (≥ 20 km/h) | 355 ± 87 m (observed 1790) | 633 ± 71 m (observed 970) | 575 m |
-| Sprint distance (> 25 km/h) | 248 ± 76 m (observed 763) | 315 ± 45 m (observed 369) | 174 m |
-| HSR efforts | 18.4 ± 6.9 (observed 23.0) | 19.6 ± 6.9 (observed 20.0) | 25.0 |
-| Sprint efforts | 1.8 ± 3.3 (observed 5.0) | 1.5 ± 2.8 (observed 5.0) | 6.0 |
-| PSV-99 | 29.3 ± 2.3 km/h (observed 35.1) | 30.9 ± 1.7 km/h (observed 33.8) | 30.2 km/h |
+| Distance | 10447 ± 143 m (observed 14473) | 10047 ± 126 m (observed 12035) | 9947 m |
+| HI distance (≥ 20 km/h) | 253 ± 172 m (observed 1918) | 647 ± 105 m (observed 953) | 558 m |
+| Sprint distance (> 25 km/h) | 227 ± 126 m (observed 667) | 299 ± 59 m (observed 297) | 157 m |
+| HSR efforts | 23.3 ± 18.4 (observed 25.0) | 19.7 ± 14.0 (observed 25.0) | 29.0 |
+| Sprint efforts | 5.7 [0.0, 11.9] (observed 5.0) | 9.2 ± 6.9 (observed 8.0) | 9.0 |
+| PSV-99 | 29.6 ± 2.9 km/h (observed 33.7) | 31.7 ± 1.6 km/h (observed 33.2) | 30.3 km/h |
 
-**J03WR9, away #13**
+**J03WOH, home #34**
 
-| KPI | Card, none camera (90 %) | Card, ptz camera (90 %) | Clean truth |
+| KPI | Card, none camera (nominal 90 %) | Card, ptz camera (nominal 90 %) | Clean truth |
 |---|---|---|---|
-| Distance | 9393 ± 107 m (observed 13093) | 8894 ± 96 m (observed 10845) | 8834 m |
-| HI distance (≥ 20 km/h) | 383 ± 127 m (observed 2202) | 807 ± 72 m (observed 1197) | 698 m |
-| Sprint distance (> 25 km/h) | 184 ± 96 m (observed 851) | 328 ± 59 m (observed 421) | 189 m |
-| HSR efforts | 35.1 ± 7.9 (observed 32.0) | 36.0 ± 6.5 (observed 36.0) | 36.0 |
-| Sprint efforts | 8.3 ± 3.2 (observed 6.0) | 11.1 ± 3.9 (observed 10.0) | 8.0 |
-| PSV-99 | 34.9 ± 2.3 km/h (observed 37.6) | 30.2 ± 1.8 km/h (observed 32.6) | 30.1 km/h |
+| Distance | 10520 ± 153 m (observed 14363) | 10288 ± 93 m (observed 12150) | 10100 m |
+| HI distance (≥ 20 km/h) | 290 ± 134 m (observed 2088) | 825 ± 78 m (observed 1147) | 685 m |
+| Sprint distance (> 25 km/h) | 275 ± 111 m (observed 783) | 289 ± 97 m (observed 355) | 149 m |
+| HSR efforts | 38.3 ± 18.2 (observed 34.0) | 31.4 ± 17.3 (observed 37.0) | 37.0 |
+| Sprint efforts | 14.5 ± 8.6 (observed 9.0) | 7.2 ± 6.3 (observed 7.0) | 10.0 |
+| PSV-99 | 29.1 ± 2.4 km/h (observed 34.1) | 27.8 ± 1.3 km/h (observed 30.5) | 27.7 km/h |
 
-**J03WPY, home #8**
+**J03WMX, away #7**
 
-| KPI | Card, none camera (90 %) | Card, ptz camera (90 %) | Clean truth |
+| KPI | Card, none camera (nominal 90 %) | Card, ptz camera (nominal 90 %) | Clean truth |
 |---|---|---|---|
-| Distance | 11659 ± 113 m (observed 16116) | 11126 ± 100 m (observed 13503) | 10991 m |
-| HI distance (≥ 20 km/h) | 556 ± 115 m (observed 2915) | 1133 ± 89 m (observed 1682) | 1053 m |
-| Sprint distance (> 25 km/h) | 396 ± 111 m (observed 1213) | 472 ± 57 m (observed 606) | 347 m |
-| HSR efforts | 50.2 ± 9.7 (observed 45.0) | 40.1 ± 7.4 (observed 44.0) | 46.0 |
-| Sprint efforts | 11.1 ± 4.2 (observed 12.0) | 9.4 ± 3.9 (observed 12.0) | 16.0 |
-| PSV-99 | 30.9 ± 1.6 km/h (observed 35.9) | 32.0 ± 1.1 km/h (observed 33.4) | 30.9 km/h |
+| Distance | 12137 ± 158 m (observed 16073) | 11723 ± 114 m (observed 13619) | 11675 m |
+| HI distance (≥ 20 km/h) | 623 ± 118 m (observed 2761) | 1099 ± 106 m (observed 1581) | 1066 m |
+| Sprint distance (> 25 km/h) | 268 ± 181 m (observed 1060) | 291 ± 67 m (observed 446) | 163 m |
+| HSR efforts | 51.5 ± 14.1 (observed 47.0) | 61.2 ± 15.3 (observed 55.0) | 58.0 |
+| Sprint efforts | 5.9 ± 5.2 (observed 6.0) | 14.4 ± 7.6 (observed 11.0) | 11.0 |
+| PSV-99 | 30.2 ± 2.1 km/h (observed 34.0) | 27.8 ± 1.6 km/h (observed 30.6) | 27.2 km/h |
 
 ## Reading it
 
@@ -85,9 +99,13 @@ player-matches, before (observed) and after correction (estimate).
   distance KPIs is many half-widths (column *Naive*): the bias correction is the core of the card.
 - The extrapolation assumes a smooth response of each KPI to the error variance. The linear step
   cannot follow a curved response (distance of slow phases grows like σ, threshold KPIs respond
-  convexly); the quadratic one follows curvature but adds Monte Carlo variance. Whatever the
-  raw coverage, the leave-one-match-out factor shows how much the half-width must grow to reach
-  90 %; it is fitted on the other matches only.
+  convexly); the quadratic one follows curvature, at the price of a larger sampling variance: it
+  multiplies the observed value by 3, and for KPIs that jump with the track the averaged doses do
+  not cancel that noise. Compare the columns *Quadratic* and *Quadratic, one-dose spread*.
+- Where coverage stays below 90 % with the nested-bootstrap variance, the remaining extrapolation
+  bias is the cause (compare *Bias after quadratic* with the half-width). The leave-one-match-out
+  factor shows how much the half-width must grow to reach 90 %; it is fitted on the other matches
+  only, on simulated errors, so it does not carry over to real tracking as such.
 - Everything is conditional on the error model: on real tracking the card is only as good as the
   error process measured on SN-GSR (stationary, independent of motion, 5 fps, smoothed-label
   reference; see `reports/kpi_budget_spectral.md`).
